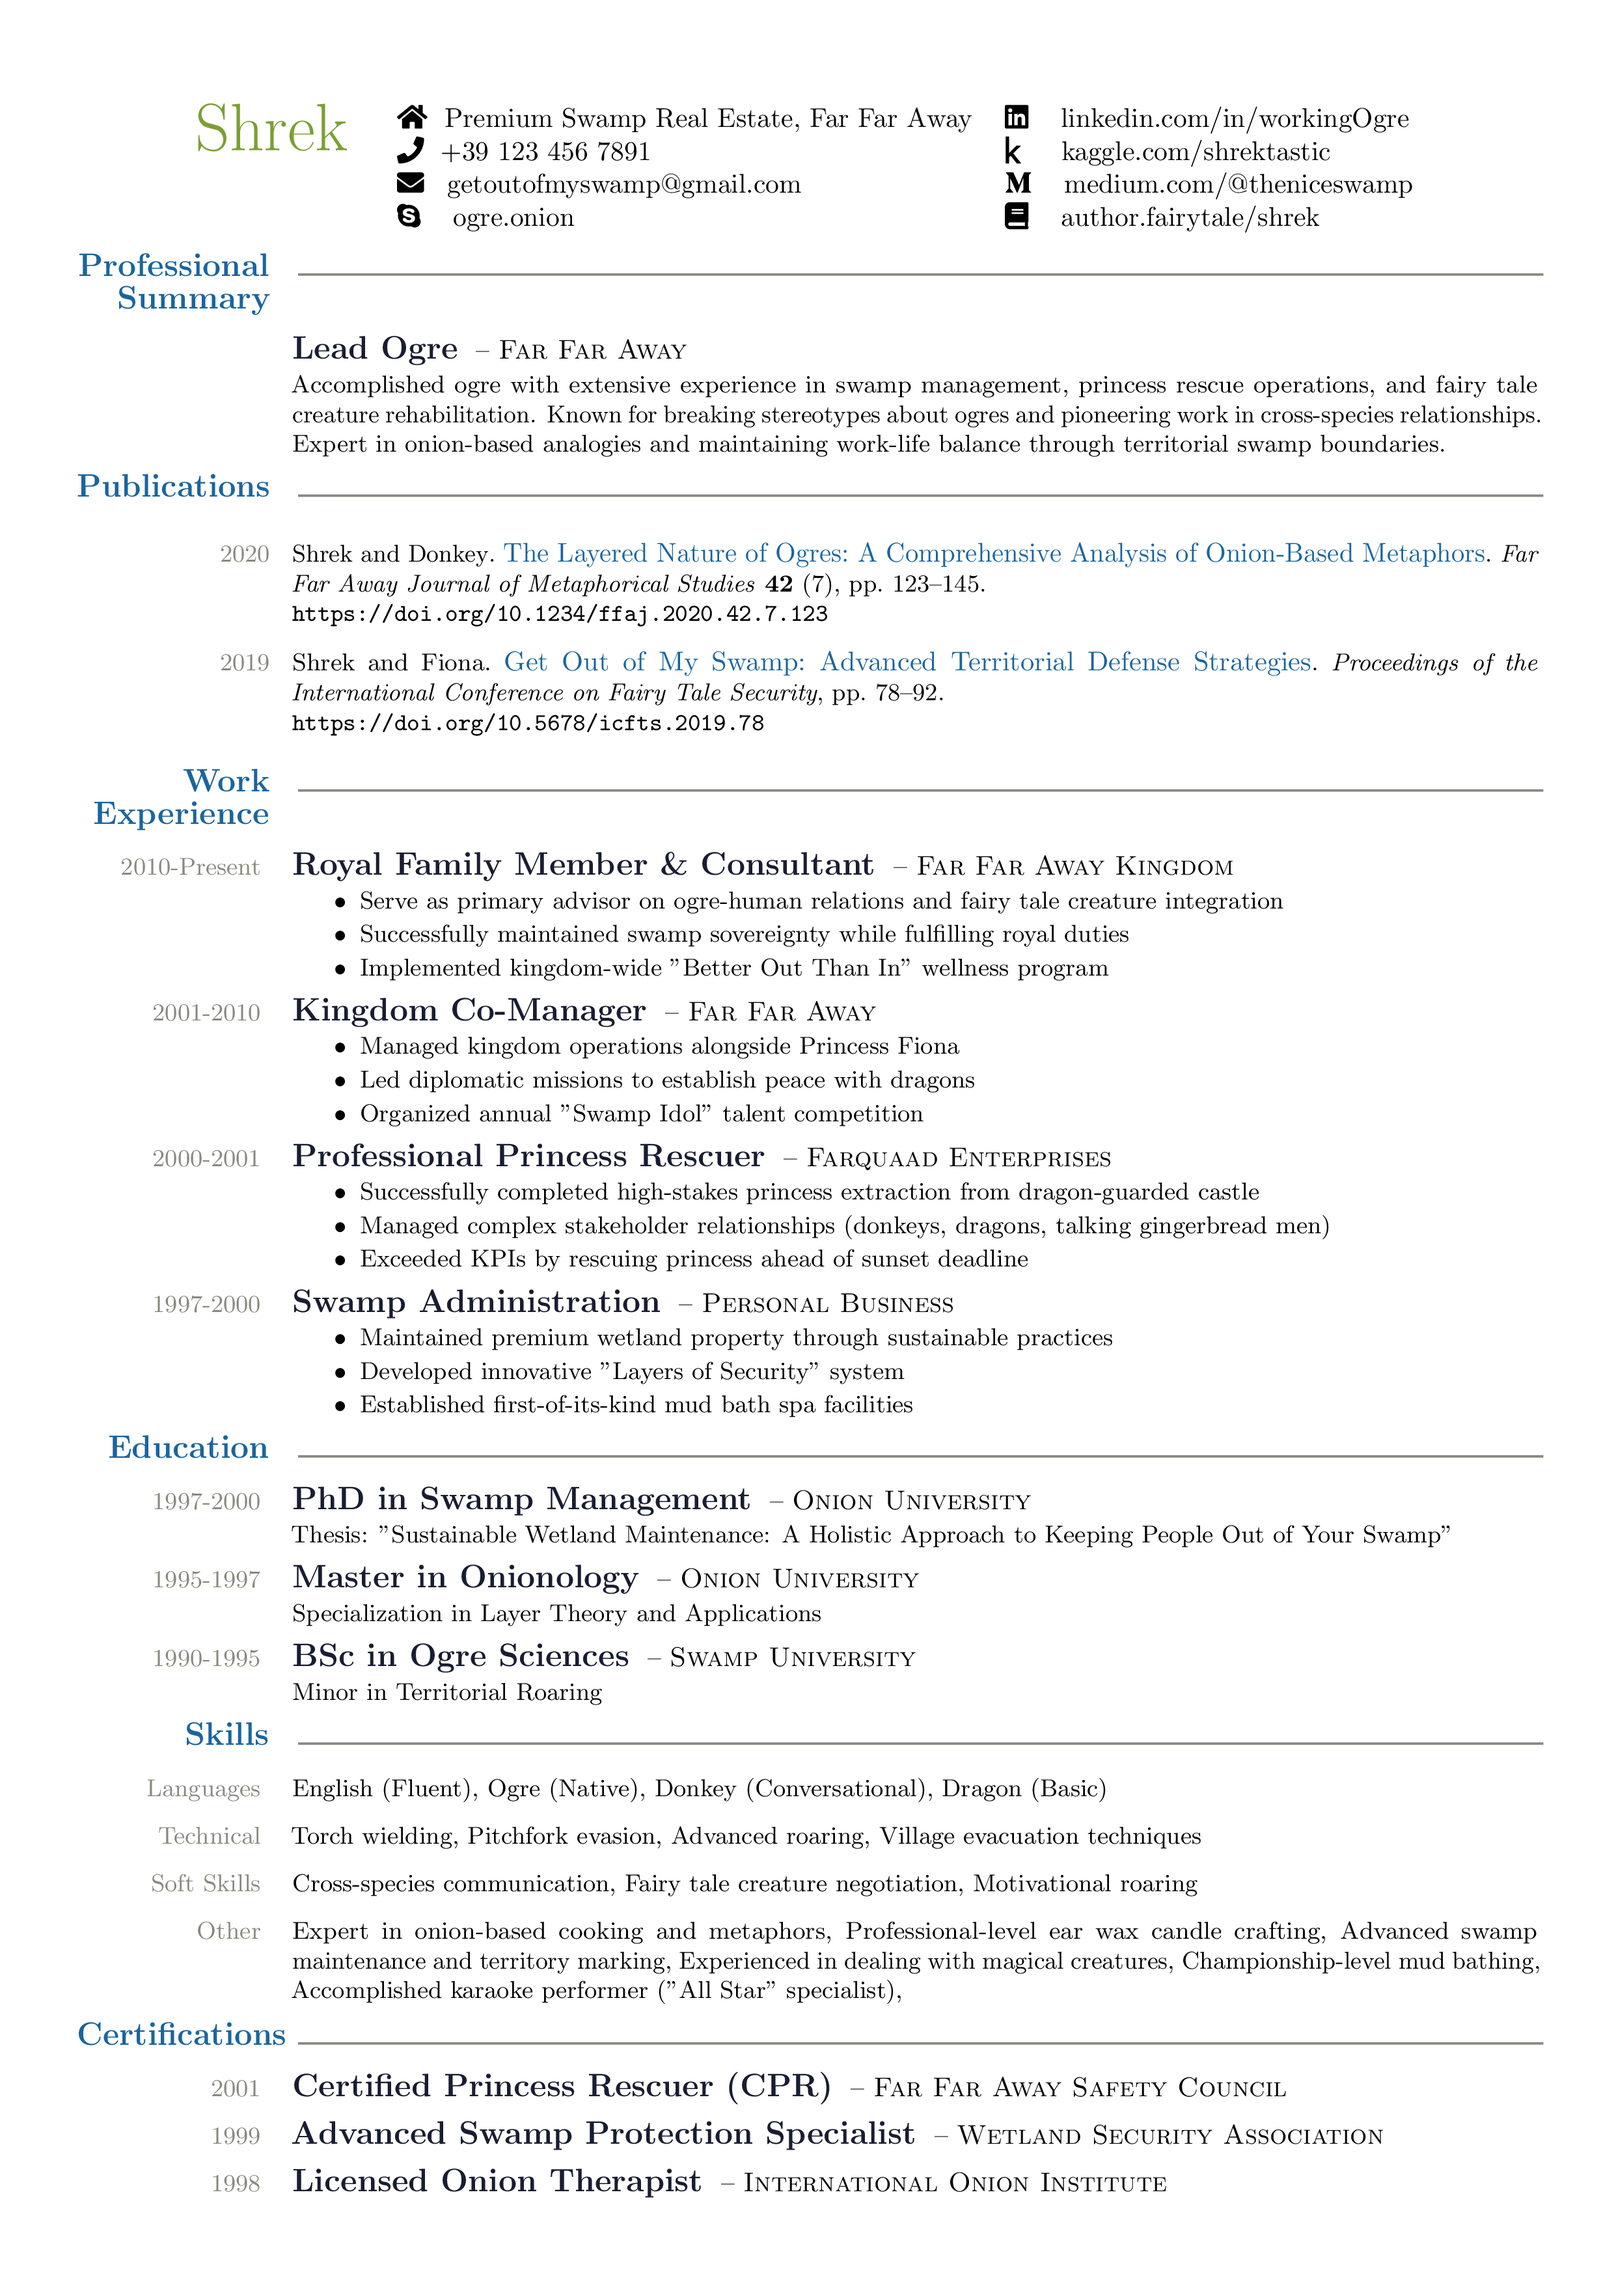
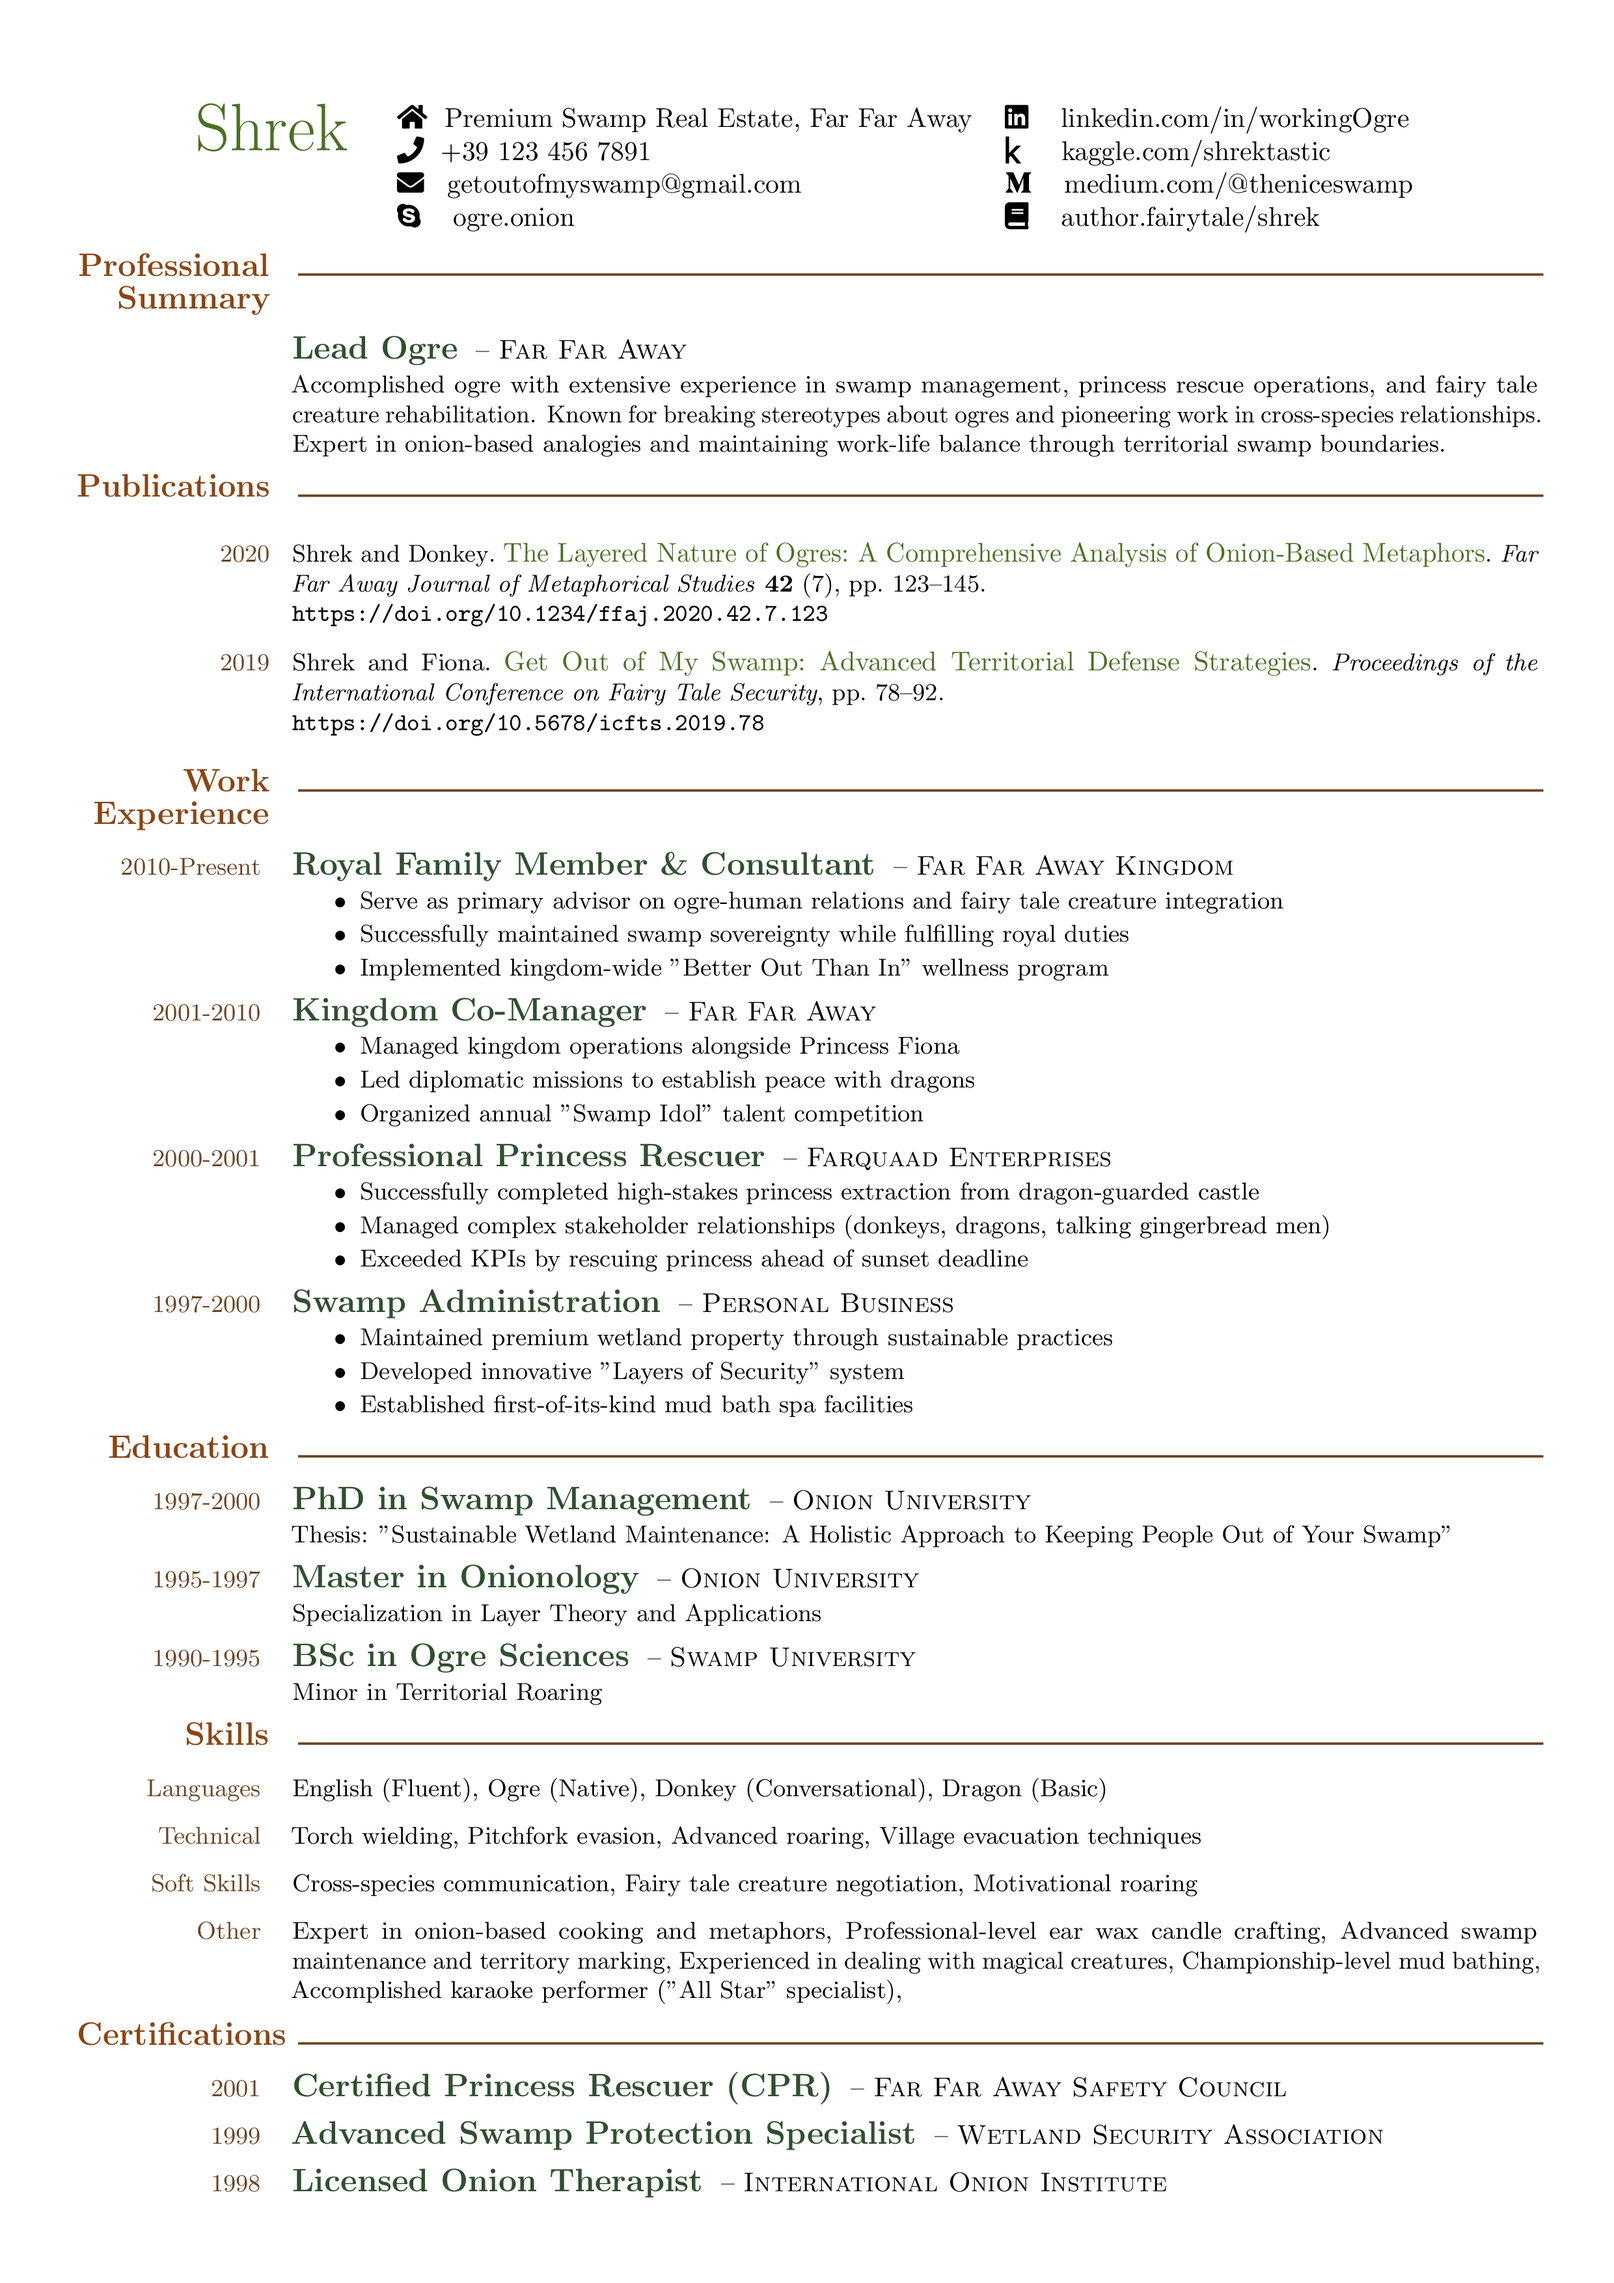
added more ogre-like colors

diff --git a/examples/ShrekAwesomeCV.tex b/examples/ShrekAwesomeCV.tex
@@ -3,7 +3,13 @@
 \addbibresource{shrek_publications.bib}
 
 \begin{document}
-\definecolor{cvnamecolor}{HTML}{7B9F35}  % Changed to a more ogre-like green
+% Ogre-themed colors
+\definecolor{cvnamecolor}{HTML}{4A7023}  % Deep swamp green
+\definecolor{cvsectioncolor}{HTML}{8B4513}  % Muddy brown
+\definecolor{cvtitlecolor}{HTML}{2F4F2F}  % Dark forest green
+\definecolor{cvrulecolor}{HTML}{6B4423}  % Earthy brown
+\definecolor{cvdurationcolor}{HTML}{6B4423}  % Matching earthy brown
+\definecolor{cvpublicationcolor}{HTML}{4A7023}  % Matching swamp green
 
 \cvpersonalinfo{Shrek}{\begin{tabular}{ll}
     \faHome\hspace{0.1cm} Premium Swamp Real Estate, Far Far Away &
